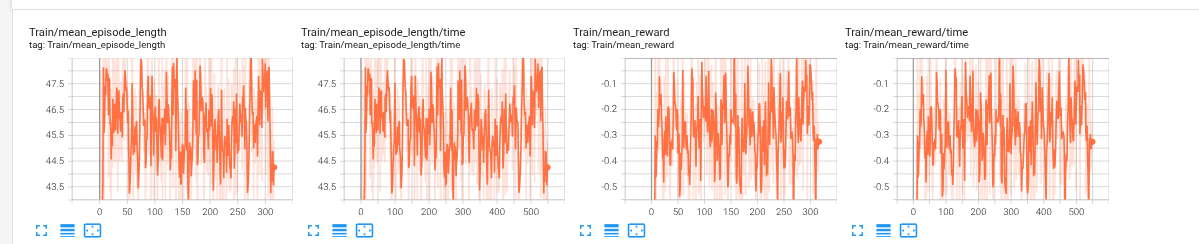
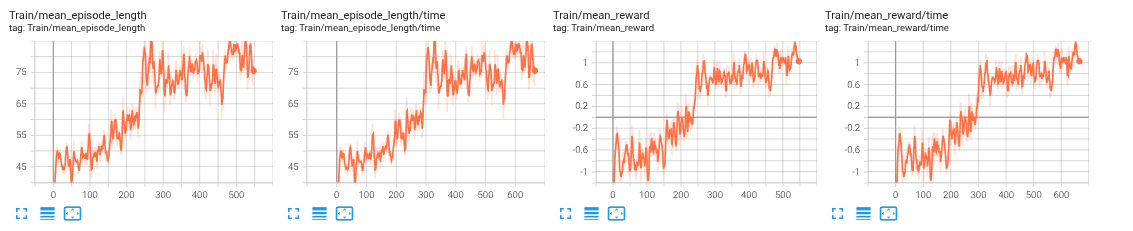
dev

diff --git a/humanoidverse/agents/delta_a/train_delta_a.py b/humanoidverse/agents/delta_a/train_delta_a.py
@@ -32,7 +32,7 @@ from humanoidverse.utils.helpers import pre_process_config
 from humanoidverse.agents.base_algo.base_algo import BaseAlgo
 from hydra.utils import instantiate
 
-
+#训练delta action模型，policy_checkpoint是预训练模型。
 class PPODeltaA(PPO):
     def __init__(self,
                  env: BaseTask,
@@ -106,45 +106,51 @@ class PPODeltaA(PPO):
     #     actions = self.actor.act(obs_dict["actor_obs"])
     #     return self.actor.act_inference(obs_dict["actor_obs"])
 
+    
+
     def _rollout_step(self, obs_dict):
         with torch.inference_mode():
             for i in range(self.num_steps_per_env):
-                # Compute the actions and values
-                # actions = self.actor.act(obs_dict["actor_obs"]).detach()
-                pkl_actions = self.env._motion_lib.get_motion_actions(self.env.motion_ids, self.env._motion_times)
                 # 使用loaded policy生成动作作为ref_actions
+                pkl_actions=self.env._motion_lib.get_motion_actions(self.env.motion_ids, self.env._motion_times)
                 with torch.inference_mode():
+
                     ref_actions = self.loaded_policy.eval_policy(obs_dict['closed_loop_actor_obs']).detach()
                     obs_dict['actor_obs'] = torch.cat([
                         obs_dict['actor_obs'][:, :-self.env.dim_actions],  # 除了ref_actions之外的所有观测
-                        pkl_actions  # 这里到底是pkl_actions还是ref_actions???
+                        pkl_actions  # 这里到底是pkl_actions还是ref_actions?
                     ], dim=1)
 
+
                 policy_state_dict = {}
-                policy_state_dict = self._actor_rollout_step(obs_dict, policy_state_dict) # 当前策略推理
+                policy_state_dict = self._actor_rollout_step(obs_dict, policy_state_dict)
+                delta_actions = policy_state_dict["actions"]
                 values = self._critic_eval_step(obs_dict).detach()
                 policy_state_dict["values"] = values
-
+                final_actions = delta_actions + pkl_actions  # 直接计算最终动作
+                #final_actions = pkl_actions
                 ## Append states to storage
                 for obs_key in obs_dict.keys():
                     self.storage.update_key(obs_key, obs_dict[obs_key])
 
                 for obs_ in policy_state_dict.keys():
                     self.storage.update_key(obs_, policy_state_dict[obs_])
-                delta_actions = policy_state_dict["actions"]     # delta action
                 
-                # 获取pkl文件中的动作并相加(真实动作)
+                     # delta action
                 
-                #final_actions = pkl_actions +delta_actions
-                final_actions = pkl_actions 
+                
+                
+         
+                '''print(f"Step {self.common_step_counter} - pkl_actions (mean): {pkl_actions.mean().item():.4f}, std: {pkl_actions.std().item():.4f}")
+                print(f"Step {self.common_step_counter} - delta_actions (mean): {delta_actions.mean().item():.4f}, std: {delta_actions.std().item():.4f}")
+                print(f"Step {self.common_step_counter} - final_actions (mean): {final_actions.mean().item():.4f}, std: {final_actions.std().item():.4f}")
+                print(f"Step {self.common_step_counter} - obs_dict['closed_loop_actor_obs'] (mean): {obs_dict['closed_loop_actor_obs'].mean().item():.4f}, std: {obs_dict['closed_loop_actor_obs'].std().item():.4f}")'''
                 
                 actor_state = {
-                    "actions": final_actions,  # 使用相加后的动作
-
+                    "actions": final_actions,  # 使用最终动作
                 }
 
                 obs_dict, rewards, dones, infos = self.env.step(actor_state)
-
                 # critic_obs = privileged_obs if privileged_obs is not None else obs
                 for obs_key in obs_dict.keys():
                     obs_dict[obs_key] = obs_dict[obs_key].to(self.device)
@@ -200,5 +206,7 @@ class PPODeltaA(PPO):
         for c in self.eval_callbacks:
             actor_state = c.on_pre_eval_env_step(actor_state)
         return actor_state
+
+   
 
     

diff --git a/humanoidverse/envs/motion_tracking/motion_tracking.py b/humanoidverse/envs/motion_tracking/motion_tracking.py
@@ -653,11 +653,20 @@ class LeggedRobotMotionTracking(LeggedRobotBase):
 
     def _get_obs_base_pos(self):
         """获取机器人基础位置作为观察值"""
+
         return self.simulator.robot_root_states[:, 0:3]
 
     def _get_obs_base_rot(self):
         """获取机器人基础旋转作为观察值（四元数）"""
-        return self.simulator.robot_root_states[:, 3:7]
+      
+        if self.config.simulator.config.name == "isaacgym":
+            return self.simulator.robot_root_states[:, 3:7]  # IsaacGym直接是xyzw格式
+        elif self.config.simulator.config.name == "isaacsim":
+            return self.simulator.robot_root_states[:, [4, 5, 6, 3]]  # IsaacSim是wxyz，需要转换为xyzw
+        elif self.config.simulator.config.name == "genesis":
+            return self.simulator.robot_root_states[:, 3:7]  # Genesis直接是xyzw格式
+        else:
+            raise NotImplementedError
 
     def _get_obs_ref_actions(self):
         """获取参考动作作为观察值"""
@@ -665,12 +674,26 @@ class LeggedRobotMotionTracking(LeggedRobotBase):
             print("Warning: _ref_actions not initialized, initializing with zeros")
             self._ref_actions = torch.zeros((self.num_envs, self.dim_actions), device=self.device)
         return self._ref_actions
+    #分析一下各个观测的数值范围,好设置scale系数
+    def print_obs(self):
+        obs_dict = {
+            "base_pos": self.simulator.robot_root_states[:, 0:3],
+            "base_rot": self.simulator.robot_root_states[:, 3:7],
+            "base_lin_vel": self.simulator.robot_root_states[:, 7:10],
+            "base_ang_vel": self.simulator.robot_root_states[:, 10:13],
+            "dof_pos": self.simulator.dof_pos,
+            "dof_vel": self.simulator.dof_vel,
 
+        }
+        # 只在前10步或每1000步打印一次
+        if self.common_step_counter < 10 or self.common_step_counter % 1000 == 0:
+            for k, v in obs_dict.items():
+                print(f"{k}: min={v.min().item():.4f}, max={v.max().item():.4f}, mean={v.mean().item():.4f}, shape={v.shape}")
     def _compute_observations(self):
         """ Computes observations """
         self.obs_buf_dict_raw = {}
         self.hist_obs_dict = {}
-        
+        #self.print_obs()
         if self.add_noise_currculum:
             noise_extra_scale = self.current_noise_curriculum_value
         else:

diff --git a/dev.py b/dev.py
@@ -1,0 +1,39 @@
+import joblib
+import numpy as np
+
+# 1. 读取原始pkl
+data = joblib.load('/home/harry/Desktop/ASAP/logs/MotionTracking/20250317_215927-MotionTracking_CR7-motion_tracking-g1_29dof_anneal_23dof/motions/g2g430 19900pt_.pkl')
+motion = data['motion0']
+
+# 2. 取出terminate信号
+terminate = np.array(motion['terminate'])  # shape: (T,)
+T = len(terminate)
+
+# 3. 找到所有终止点
+episode_ends = np.where(terminate)[0]
+if len(episode_ends) == 0 or episode_ends[-1] != T-1:
+    # 如果最后一帧不是终止帧，补上
+    episode_ends = np.append(episode_ends, T-1)
+episode_starts = np.concatenate(([0], episode_ends[:-1] + 1))
+
+# 4. 切分每个episode
+episodes = []
+for start, end in zip(episode_starts, episode_ends):
+    ep = {}
+    for k in motion.keys():
+        # 注意：有的key可能是一维（如fps），只保留原值
+        if isinstance(motion[k], np.ndarray) and motion[k].shape[0] == T:
+            ep[k] = motion[k][start:end+1]
+        else:
+            ep[k] = motion[k]
+    episodes.append(ep)
+
+print(f"共切分出{len(episodes)}条完整episode")
+
+# 5. 保存为新的pkl文件（每个episode一个motion{i}，与原始格式兼容）
+split_data = {}
+for i, ep in enumerate(episodes[1:-1]):#跳过第0段和最后一段
+    split_data[f'motion{i}'] = ep
+
+joblib.dump(split_data, 'your_motion_file_split.pkl')
+print("已保存为 your_motion_file_split.pkl")

diff --git a/read.py b/read.py
@@ -77,5 +77,5 @@ def main_analyze(pkl_path):
         print(f"加载文件失败: {e}")
 
 if __name__ == "__main__":
-    pkl_file_to_analyze = "/home/harry/Desktop/ASAP/logs/MotionTracking/20250317_215927-MotionTracking_CR7-motion_tracking-g1_29dof_anneal_23dof/motions/gym2ge500 5700pt_.pkl"
+    pkl_file_to_analyze = "your_motion_file_split.pkl"
     main_analyze(pkl_file_to_analyze)

diff --git a/humanoidverse/agents/delta_a/train_agent_d.py b/humanoidverse/agents/delta_a/train_agent_d.py
@@ -32,7 +32,7 @@ from humanoidverse.utils.helpers import pre_process_config
 from humanoidverse.agents.base_algo.base_algo import BaseAlgo
 from hydra.utils import instantiate
 
-# 固定delta action 模型，训练策略
+# 固定delta action 模型，训练策略，policy_checkpoint是残差模型。
 class PPODeltaD(PPO):
     def __init__(self,
                  env: BaseTask,

diff --git a/humanoidverse/simulator/genesis/genesis.py b/humanoidverse/simulator/genesis/genesis.py
@@ -121,7 +121,7 @@ class Genesis(BaseSimulator):
         asset_root = self.robot_cfg.asset.asset_root
         asset_file = self.robot_cfg.asset.urdf_file
         asset_path = os.path.join(asset_root, asset_file)
-
+        #在这个地方读取
         self.robot = self.scene.add_entity(
             gs.morphs.URDF(
                 file=asset_path,
